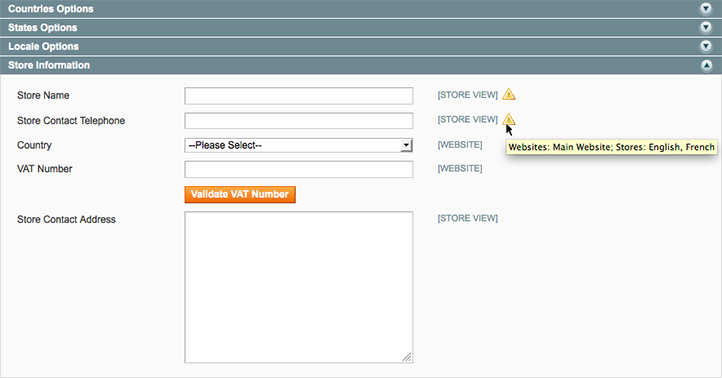
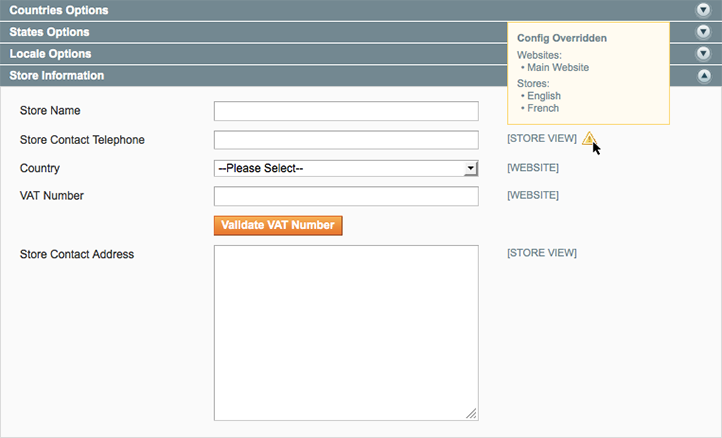
Changing tooltip behaviour to JS based. Updated screenshot

diff --git a/extension/skin/adminhtml/default/default/dannynimmo_configscopewarning/main.css b/extension/skin/adminhtml/default/default/dannynimmo_configscopewarning/main.css
@@ -1,16 +1,38 @@
 .scope-warning {
+    position: relative;
     display: inline-block;
     width: 16px;
     height: 18px;
     margin-left: 5px;
     vertical-align: top;
     background: url('../images/warning_msg_icon.gif') no-repeat;
-    overflow: hidden;
-    *text-indent: -9999px;
 }
-.scope-warning:before {
+.scope-warning-message {
+    position: absolute;
+    bottom: 24px;
+    right: -77px;
+    display: none;
+    width: 150px;
+    padding: 10px;
+    line-height: 1.2;
+    background-color: #fffbf0;
+    border: solid 1px #ffd967;
+}
+.scope-warning-message.active {
     display: block;
-    width: 0;
-    height: 150%;
-    content: "";
+}
+.scope-warning-message h6 {
+    margin-bottom: 5px;
+}
+.scope-warning-message dd + dt {
+    margin-top: 4px;
+}
+.scope-warning-message dt::after {
+    content: "\3a\a0";
+}
+.scope-warning-message dd {
+    padding-left: 4px;
+}
+.scope-warning-message dd::before {
+    content: "\2022\a0";
 }

diff --git a/extension/skin/adminhtml/default/default/dannynimmo_configscopewarning/main.js b/extension/skin/adminhtml/default/default/dannynimmo_configscopewarning/main.js
@@ -1,0 +1,27 @@
+(function(window, document, undefined) {
+    'use strict';
+
+    var tooltip = {
+
+        init: function() {
+            this.listen();
+        },
+
+        listen: function() {
+            [].forEach.call(document.querySelectorAll('.scope-warning'), function(el) {
+                el.addEventListener('mouseover', function() {
+                    this.getElementsByTagName('div')[0].classList.add('active');
+                });
+                el.addEventListener('mouseout', function() {
+                    this.getElementsByTagName('div')[0].classList.remove('active');
+                });
+            });
+        }
+
+    };
+
+    document.addEventListener('DOMContentLoaded', function() {
+        tooltip.init();
+    });
+
+})(window, document);

diff --git a/extension/app/code/community/DannyNimmo/ConfigScopeWarning/Helper/Data.php b/extension/app/code/community/DannyNimmo/ConfigScopeWarning/Helper/Data.php
@@ -48,29 +48,24 @@ class DannyNimmo_ConfigScopeWarning_Helper_Data extends Mage_Core_Helper_Abstrac
         $overrides = $this->getOverrides();
         if($overrides) {
 
+            $message = '<h6>'. $this->__('Config Overridden') . '</h6>';
+
+            $message .= '<dl>';
             if($overrides->websites) {
-                $title = $this->__('Websites') . ': ';
+                $message .= '<dt>' . $this->__('Websites') . '</dt>';
                 foreach($overrides->websites as $website) {
-                    $title .= $website . ', ';
+                    $message .= '<dd>' . $website . '</dd>';
                 }
-                $title = rtrim($title, ', ');
             }
-
-            if(isset($title)) {
-                $title .= '; ';
-            } else {
-                $title = '';
-            }
-
             if($overrides->stores) {
-                $title .= $this->__('Stores') . ': ';
+                $message .= '<dt>' . $this->__('Stores') . '</dt>';
                 foreach($overrides->stores as $store) {
-                    $title .= $store . ', ';
+                    $message .= '<dd>' . $store . '</dd>';
                 }
-                $title = rtrim($title, ', ');
             }
+            $message .= '</dl>';
 
-            $markup = '<i class="scope-warning" title="' . $title . '">' . $this->__('Scope warning') . '</i>';
+            $markup = '<div class="scope-warning"><div class="scope-warning-message">'.$message.'</div></div>';
             return $markup;
         }
         return '';

diff --git a/extension/app/code/community/DannyNimmo/ConfigScopeWarning/Block/System/Config/Form.php b/extension/app/code/community/DannyNimmo/ConfigScopeWarning/Block/System/Config/Form.php
@@ -12,6 +12,7 @@ class DannyNimmo_ConfigScopeWarning_Block_System_Config_Form extends Mage_Adminh
 
     protected function _prepareLayout() {
         $this->getLayout()->getBlock('head')->addCss('dannynimmo_configscopewarning/main.css');
+        $this->getLayout()->getBlock('head')->addItem('skin_js', 'dannynimmo_configscopewarning/main.js');
         return parent::_prepareLayout();
     }
 
